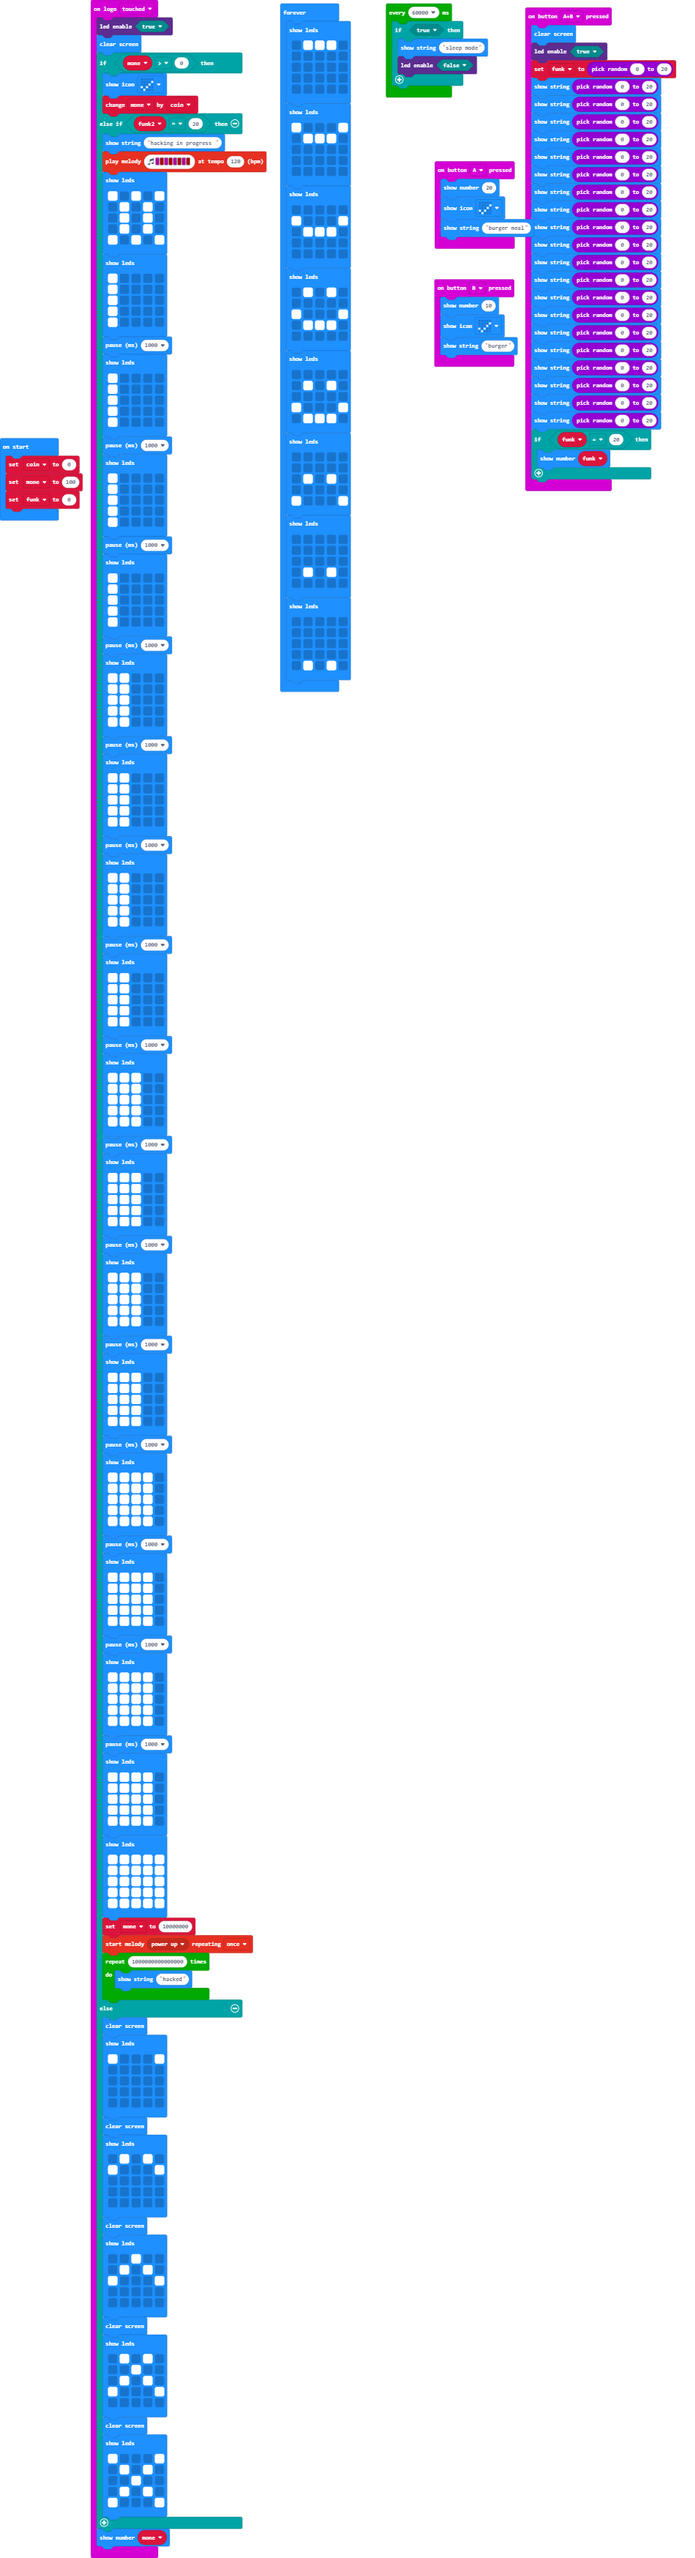
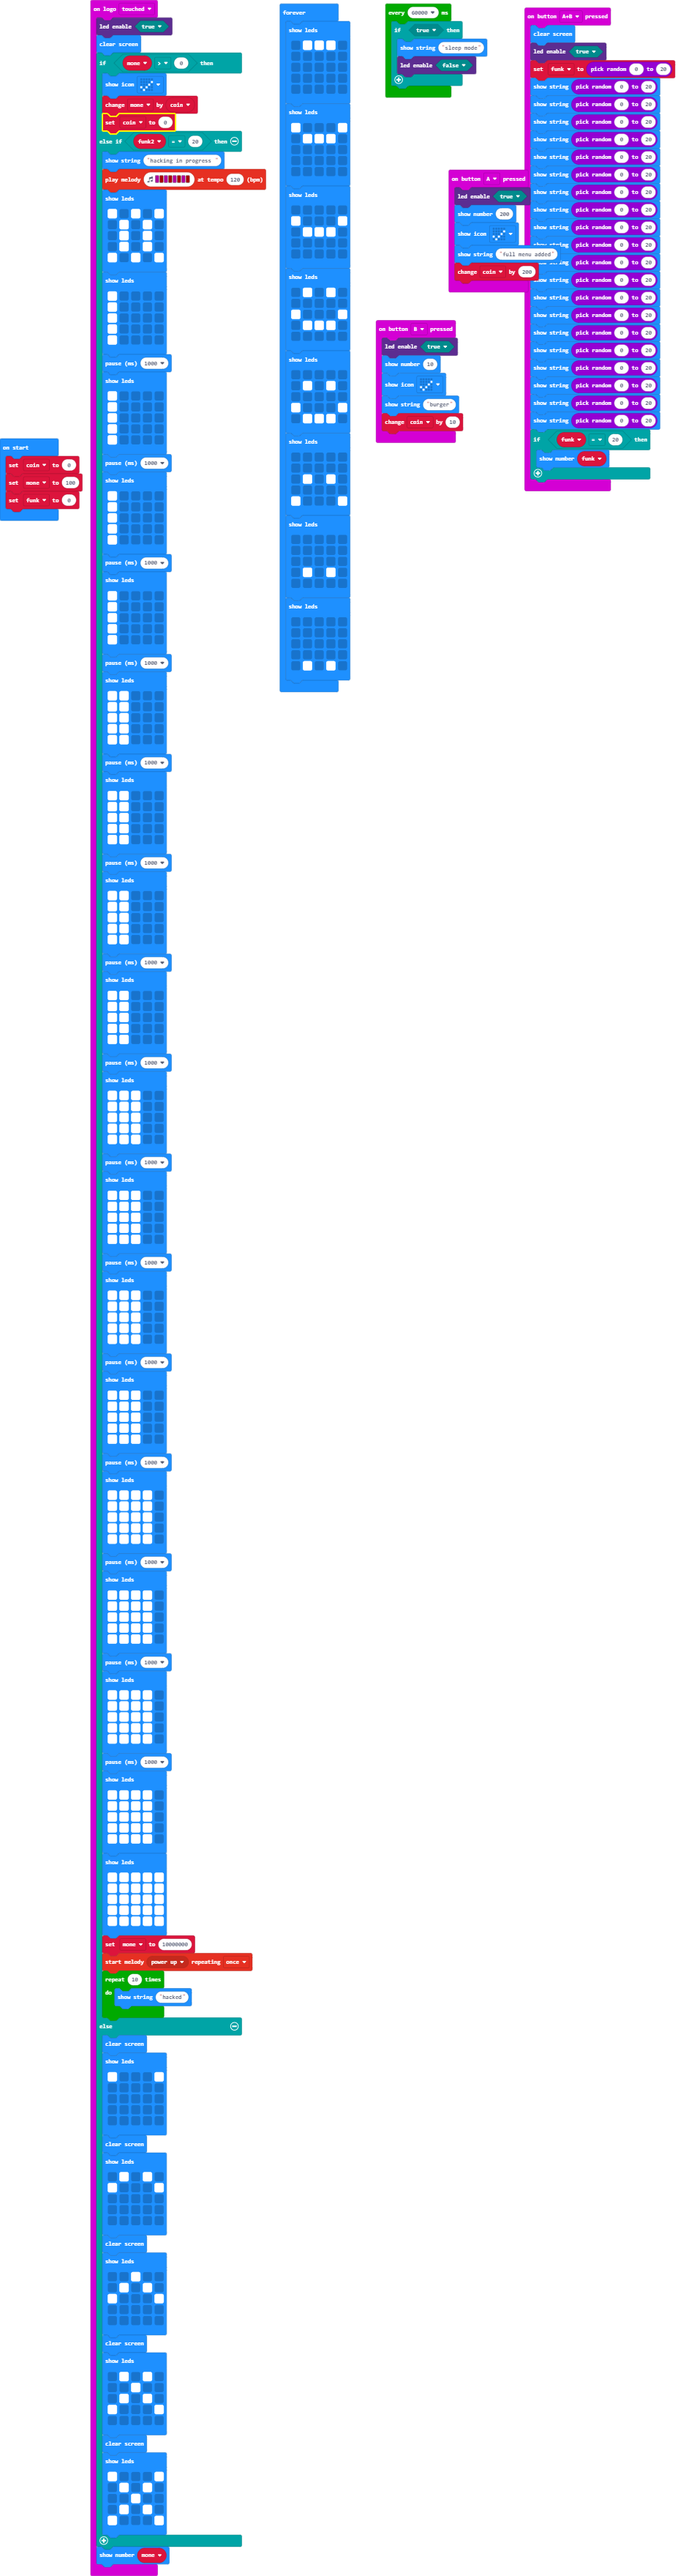
Update main.blocks, main.ts

Changed region(s): [[0.0, 0.0, 0.9473, 1.0], [0.5501, 0.0, 0.6723, 0.0312]]

diff --git a/main.ts b/main.ts
@@ -1,7 +1,9 @@
 input.onButtonPressed(Button.A, function () {
-    basic.showNumber(20)
+    led.enable(true)
+    basic.showNumber(200)
     basic.showIcon(IconNames.Yes)
-    basic.showString("burger meal")
+    basic.showString("full menu added")
+    coin += 200
 })
 input.onButtonPressed(Button.AB, function () {
     basic.clearScreen()
@@ -32,9 +34,11 @@ input.onButtonPressed(Button.AB, function () {
     }
 })
 input.onButtonPressed(Button.B, function () {
+    led.enable(true)
     basic.showNumber(10)
     basic.showIcon(IconNames.Yes)
     basic.showString("burger")
+    coin += 10
 })
 input.onLogoEvent(TouchButtonEvent.Touched, function () {
     let funk2 = 0
@@ -43,6 +47,7 @@ input.onLogoEvent(TouchButtonEvent.Touched, function () {
     if (mone > 0) {
         basic.showIcon(IconNames.Yes)
         mone += coin
+        coin = 0
     } else if (funk2 == 20) {
         basic.showString("hacking in progress ")
         music.playMelody("C C5 C C5 C C5 C C5 ", 120)
@@ -189,7 +194,7 @@ input.onLogoEvent(TouchButtonEvent.Touched, function () {
             `)
         mone = 10000000
         music.startMelody(music.builtInMelody(Melodies.PowerUp), MelodyOptions.Once)
-        for (let index = 0; index < 1000000000000000; index++) {
+        for (let index = 0; index < 10; index++) {
             basic.showString("hacked")
         }
     } else {
